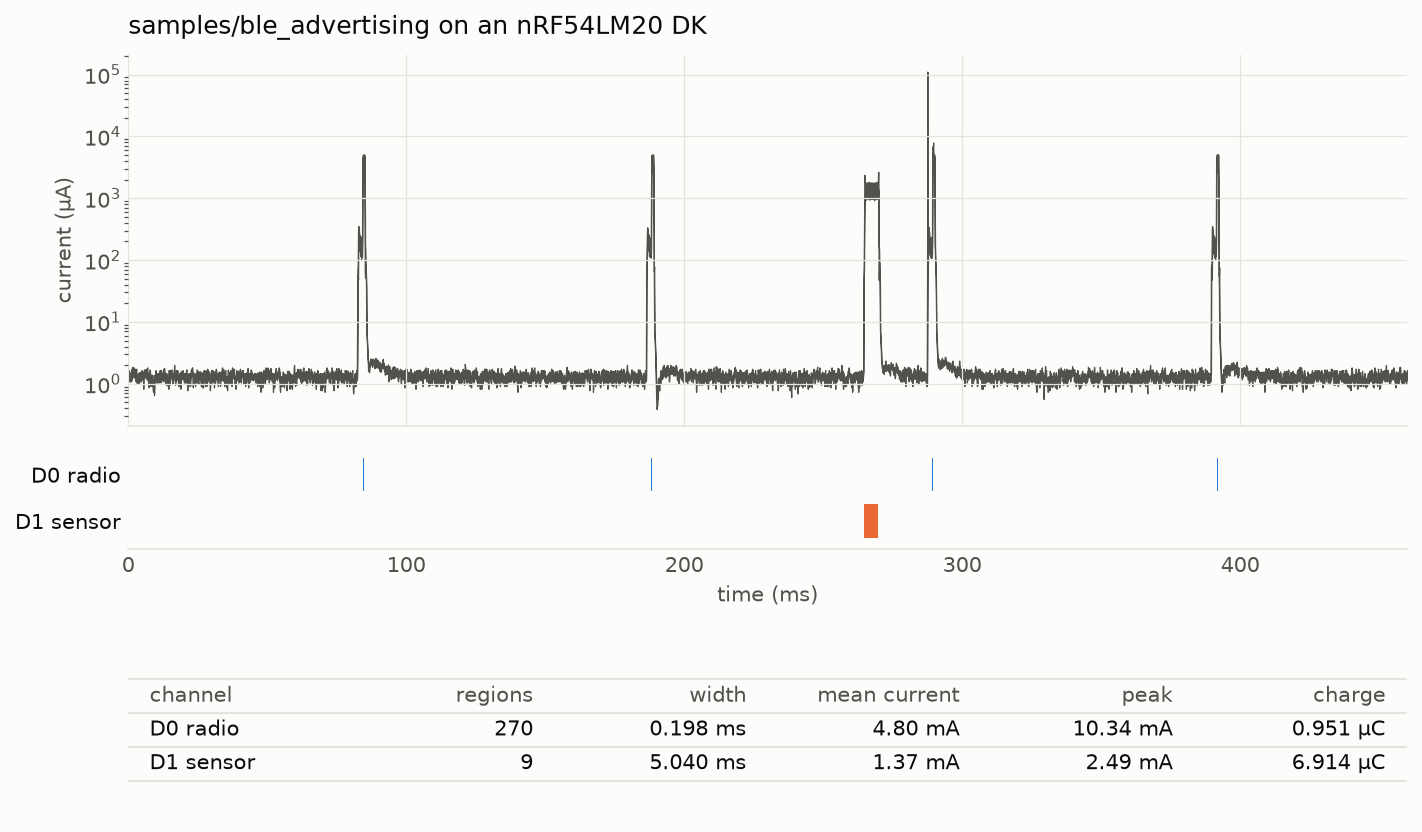
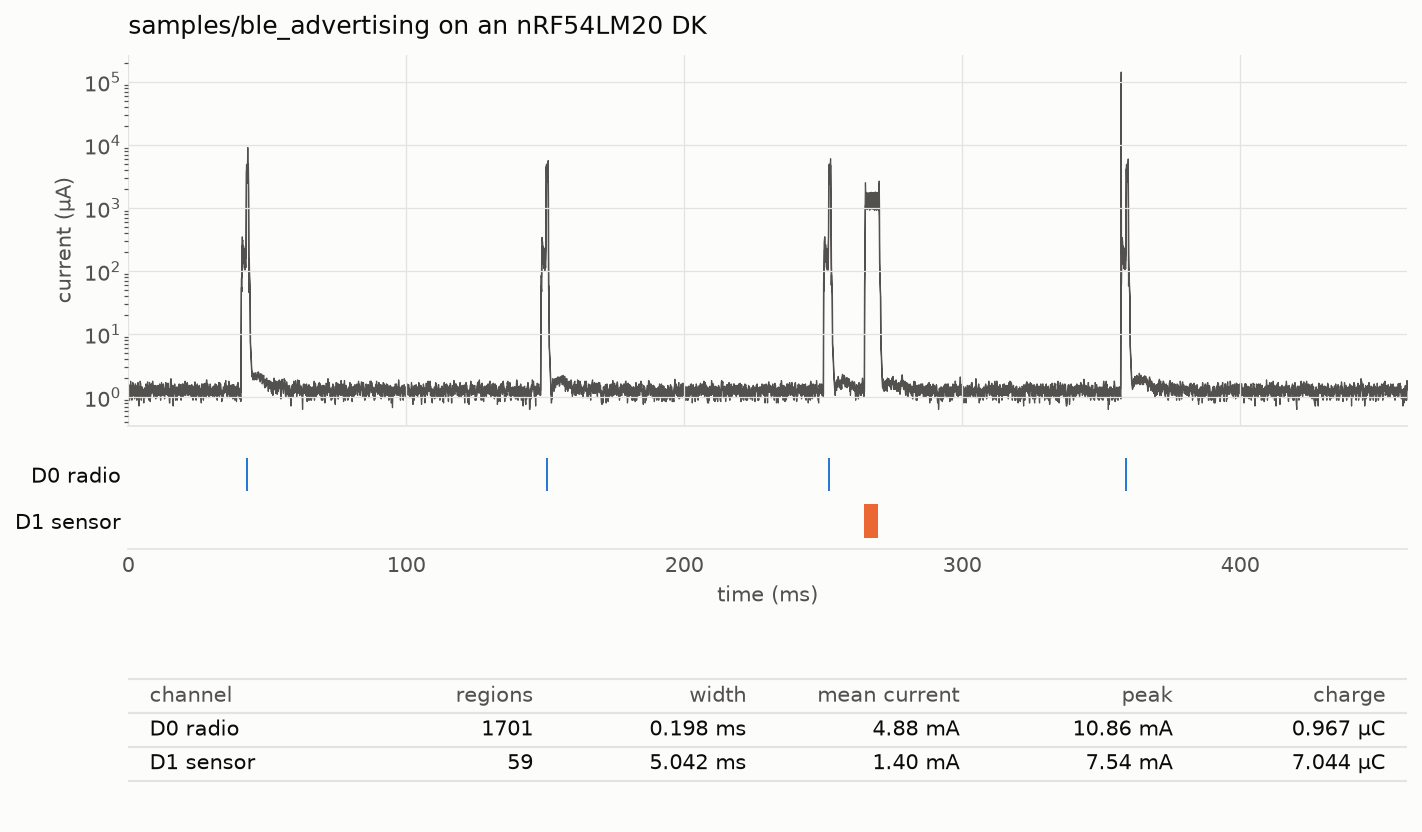
docs(evidence): 60 s captures replace those of 10 and 12 s
The old ones held four profiling cycles and nine sensor reads, too few
for the comparisons the pages made. The four new ones hold 21 and 59,
from the current code with ppk2-lib at d5986ee.

diff --git a/docs/samples.md b/docs/samples.md
@@ -11,7 +11,7 @@ Wire the dev kit first: see [bench](bench.md).
 ```sh
 west build -b nrf54lm20dk/nrf54lm20b/cpuapp zephyr-ppk2/samples/profiling
 west ppk2 run --source --vdd 3.3 -- west flash
-west ppk2 capture --source --vdd 3.3 --out trace.csv --seconds 12
+west ppk2 capture --source --vdd 3.3 --out trace.csv --seconds 60
 west ppk2 attribute trace.csv
 ```
 
@@ -21,18 +21,19 @@ A cycle every 2.8 s: `wakeup` (20 ms busy), `measure` (120 ms busy, a
 30 ms wait, 50 ms busy), `transmit` (200 ms busy), then a 400 ms sleep
 inside the cycle. Each function starts with `PPK2_TRACE_SCOPE`.
 
-| Channel | Regions | Width | Mean current | Charge |
-|---|---|---|---|---|
-| D0 cycle | 4 | 823.175 ms | 676.53 µA | 556.9 ± 2.4 µC |
-| D1 wakeup | 5 | 20.158 ms | 1402.74 µA | 28.276 ± 0.094 µC |
-| D2 measure | 4 | 201.375 ms | 1202.51 µA | 242.2 ± 2.0 µC |
-| D3 transmit | 4 | 201.577 ms | 1407.88 µA | 283.80 ± 0.17 µC |
-| Idle | | | 3.02 µA median | |
+| Channel | Regions | Width | Mean current | Charge | Median charge |
+|---|---|---|---|---|---|
+| D0 cycle | 21 | 823.249 ms | 676.55 µA | 557.0 ± 1.8 µC | 557.418 µC |
+| D1 wakeup | 22 | 20.161 ms | 1,402.09 µA | 28.267 ± 0.045 µC | 28.264 µC |
+| D2 measure | 21 | 201.429 ms | 1,203.09 µA | 242.3 ± 1.6 µC | 241.425 µC |
+| D3 transmit | 21 | 201.594 ms | 1,408.66 µA | 283.98 ± 0.15 µC | 283.996 µC |
+| Idle | | | 3.02 µA median | | |
 
 ![One cycle of the profiling sample](img/profiling.png)
 
 The 30 ms wait inside `measure` shows as a dip, and the 400 ms sleep as
-the flat stretch while D0 stays high.
+the flat stretch while D0 stays high. The spike to 100 mA where the
+cycle starts is a wake-up burst, not a current the DUT drew.
 
 ## `wrap_profiling`
 
@@ -41,18 +42,24 @@ four functions with `PPK2_TRACE_WRAP`, and `CMakeLists.txt` passes them
 to `ppk2_trace_wrap()`. The names in the report are those of the
 functions.
 
-| Channel | Regions | Width | Mean current | Charge |
-|---|---|---|---|---|
-| D0 run_cycle | 4 | 823.293 ms | 671.05 µA | 552.5 ± 2.1 µC |
-| D1 wakeup | 5 | 20.158 ms | 1392.80 µA | 28.076 ± 0.073 µC |
-| D2 measure | 4 | 201.435 ms | 1188.83 µA | 239.47 ± 0.12 µC |
-| D3 transmit | 4 | 201.630 ms | 1397.08 µA | 281.69 ± 0.10 µC |
-| Idle | | | 3.02 µA median | |
+| Channel | Regions | Width | Mean current | Charge | Median charge |
+|---|---|---|---|---|---|
+| D0 run_cycle | 21 | 823.238 ms | 671.73 µA | 553.0 ± 1.8 µC | 553.475 µC |
+| D1 wakeup | 22 | 20.159 ms | 1,390.59 µA | 28.032 ± 0.047 µC | 28.024 µC |
+| D2 measure | 21 | 201.417 ms | 1,195.13 µA | 240.7 ± 1.8 µC | 239.588 µC |
+| D3 transmit | 21 | 201.595 ms | 1,397.85 µA | 281.80 ± 0.15 µC | 281.823 µC |
+| Idle | | | 3.02 µA median | | |
 
-The two ways of marking agree within 1.2 % on every channel. The
-largest difference is on `measure`: in the first capture one of its
-regions contains a wake-up burst (a peak of 132 mA), which moves its
-mean. The medians of the charge differ by 0.7 %.
+The widths agree within 0.02 ms. The wrapped build reads 0.7 to 0.8 %
+lower in current on every channel, in this round and in an earlier one.
+That is more than two captures of one build differ by (0.05 % in
+ppk2-lib's validation), and its cause was not looked for: the two builds are different binaries.
+
+The charge is the mean ± the standard deviation over the regions. On
+`cycle` and `measure` the spread is ten times that of `transmit`: both
+contain a wake-up from sleep, and some of those carry a
+[wake-up burst](../evidence/README.md#wake-up-bursts). The median is
+not moved by them.
 
 ## `ble_advertising`
 
@@ -60,16 +67,17 @@ A BLE advertiser that reads a sensor once a second and puts the value
 in its advertising data. D0 is the radio channel, driven by hardware.
 D1 is the sensor read, a 5 ms busy wait marked in the source.
 
-| Channel | Regions | Width | Mean current | Charge |
-|---|---|---|---|---|
-| D0 radio | 270 | 0.198 ms | 4799.91 µA | 0.951 ± 0.031 µC |
-| D1 sensor | 9 | 5.040 ms | 1371.88 µA | 6.914 ± 0.021 µC |
-| Idle | | | 1.35 µA median | |
+| Channel | Regions | Width | Mean current | Charge | Median charge |
+|---|---|---|---|---|---|
+| D0 radio | 1,701 | 0.198 ms | 4,881.77 µA | 0.967 ± 0.046 µC | 0.958 µC |
+| D1 sensor | 59 | 5.042 ms | 1,396.51 µA | 7.04 ± 0.61 µC | 6.928 µC |
+| Idle | | | 1.31 µA median | | |
 
 ![The BLE sample around one sensor read](img/ble_advertising.png)
 
 There are three radio pulses per advertising event, one per advertising
-channel, and an event about every 100 ms.
+channel, and an event about every 100 ms. The last event of the figure
+starts with a wake-up burst.
 
 ### A regression caught
 
@@ -80,9 +88,9 @@ west ppk2 budget trace.csv --channel 1 --max-uc 8 --max-ms 6 --idle-max-ua 2
 ```
 
 ```text
-PASS region charge 6.91 µC (budget 8.00 µC)
+PASS region charge 7.04 µC (budget 8.00 µC)
 PASS region width 5.04 ms (budget 6.00 ms)
-PASS idle median 1.35 µA (budget 2.00 µA)
+PASS idle median 1.31 µA (budget 2.00 µA)
 ```
 
 Make the sensor read three times longer, `k_busy_wait(15000)` in
@@ -90,9 +98,9 @@ Make the sensor read three times longer, `k_busy_wait(15000)` in
 exits 1:
 
 ```text
-FAIL region charge 21.41 µC (budget 8.00 µC)
+FAIL region charge 21.45 µC (budget 8.00 µC)
 FAIL region width 15.13 ms (budget 6.00 ms)
-PASS idle median 1.35 µA (budget 2.00 µA)
+PASS idle median 1.31 µA (budget 2.00 µA)
 ```
 
 The radio and the idle current are unchanged, so the report points at

diff --git a/README.md b/README.md
@@ -132,7 +132,7 @@ Run `west update`. Then, in the application:
 
 ```sh
 west ppk2 run --source --vdd 3.3 -- west flash          # power the DUT while it is flashed
-west ppk2 capture --source --vdd 3.3 --out trace.csv --seconds 10
+west ppk2 capture --source --vdd 3.3 --out trace.csv --seconds 60
 west ppk2 attribute trace.csv                           # the report
 west ppk2 plot trace.csv --window 5.3 5.8 --out ble.png # the figure
 ```
@@ -143,10 +143,10 @@ west ppk2 plot trace.csv --window 5.3 5.8 --out ble.png # the figure
 `attribute` prints:
 
 ```text
-capture: 999532 samples, 10.00 s powered
-D0 radio               n=270   width     0.198 ms  avg   4799.91 µA  peak    10343 µA  charge     0.951 ± 0.031 µC (median 0.954)
-D1 sensor              n=9     width     5.040 ms  avg   1371.88 µA  peak     2493 µA  charge     6.914 ± 0.021 µC (median 6.913)
-idle (no channel high) median      1.35 µA  mean     26.96 µA
+capture: 5999755 samples, 60.00 s powered
+D0 radio               n=1701  width     0.198 ms  avg   4881.77 µA  peak    10856 µA  charge     0.967 ± 0.046 µC (median 0.958)
+D1 sensor              n=59    width     5.042 ms  avg   1396.51 µA  peak     7541 µA  charge     7.044 ± 0.608 µC (median 6.928)
+idle (no channel high) median      1.31 µA  mean     25.55 µA
 ```
 
 A region is a stretch where a channel is high. The charge is given as
@@ -164,14 +164,14 @@ current, exceed a budget. In a CI job on a runner wired to the bench:
 ```sh
 west build -b nrf54lm20dk/nrf54lm20b/cpuapp app
 west ppk2 run --source --vdd 3.3 -- west flash
-west ppk2 capture --source --vdd 3.3 --out trace.csv --seconds 10
+west ppk2 capture --source --vdd 3.3 --out trace.csv --seconds 60
 west ppk2 budget trace.csv --channel 1 --max-uc 8 --max-ms 6 --idle-max-ua 2
 ```
 
 ```text
-PASS region charge 6.91 µC (budget 8.00 µC)
+PASS region charge 7.04 µC (budget 8.00 µC)
 PASS region width 5.04 ms (budget 6.00 ms)
-PASS idle median 1.35 µA (budget 2.00 µA)
+PASS idle median 1.31 µA (budget 2.00 µA)
 ```
 
 The budgets are `--max-ua`, `--max-peak-ua`, `--max-uc`, `--max-ms`,

diff --git a/evidence/README.md b/evidence/README.md
@@ -7,7 +7,7 @@ The captures behind the figures of [samples](../docs/samples.md).
 | Date | 2026-11-21 |
 | DUT | nRF54LM20 DK, each sample built from this repository with nRF Connect SDK v3.3.1 |
 | PPK2 | Source meter mode at 3.3 V, firmware 1.2.4 |
-| Capture | `ppk2 capture` of ppk2-lib at commit `ace11d0`, 10 or 12 s from power-on |
+| Capture | `ppk2 capture` of ppk2-lib at commit `35a6c10`, 60 s from power-on, between 22:50 and 22:57 |
 | Markers | D0 to D3 on P1.12 to P1.15 |
 
 | File | Sample |
@@ -47,5 +47,6 @@ current the DUT drew, and the median is the figure to trust.
 
 ## Limits
 
-One dev kit and one PPK2, one capture per sample. That ppk2-lib agrees
+One dev kit and one PPK2, one capture per sample, so 21 cycles of the
+profiling samples and 59 sensor reads. That ppk2-lib agrees
 with Nordic's Power Profiler app is shown in ppk2-lib, not here.
